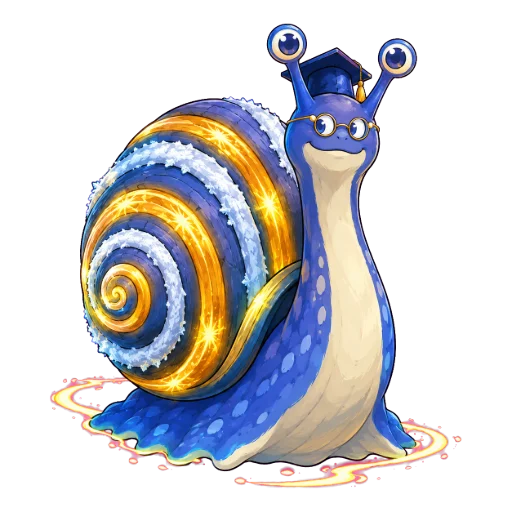
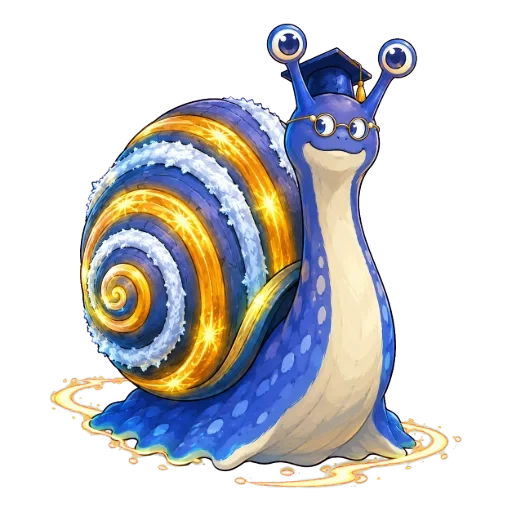
ボス4（トキマイマイ）の光のふちのピンクを消し、顔の丸を顔に合わせる
- 足元の金の光る跡をマゼンタで抜くと、サーモン色のふちが残った。tools/defringe.cjs に
  magenta を足し（赤が緑より強く、青が緑と同じくらい以上の画素を金色に置き換える）、
  黒の背景に重ねて消えたことを見た。手順を art-prompts.md に書いた
- 顔が右上にあるので face を x0.66・y0.21 にした（アプリと同じ切り抜きの見本で確かめた）

Claude-Session: https://claude.ai/code/session_01RNQf1ute6ifihXrBH9K59o

diff --git a/docs/sources/art-prompts.md b/docs/sources/art-prompts.md
@@ -28,6 +28,7 @@
 - 背景が透過にならず黒で出たときも、そのまま置いてよい（戦いの画面は黒い背景）
 - 背景に市松模様（白と薄い灰色のます目）が描き込まれて出ることがある（透過に見えるが透過ではない）。門番が tools/unchecker.cjs（外周からつながる白・薄い灰色だけを透過にする）で抜く（2026-10-09、boss-2）
 - 体のふちが青く光る絵を緑のキーで抜くと、光と緑がまざった水色の線がふちに残る。tools/defringe.cjs（透明の画素から R 画素以内で、緑が赤より 30 以上強い画素の緑を赤まで下げる）で消す: `node tools/defringe.cjs boss-N.webp boss-N.webp 12 30`（playwright-core が要る。2026-10-12、DX boss-12 カギロウ）
+- 金・黄の光（足元の光る跡など）をマゼンタのキーで抜くと、光とマゼンタがまざったサーモン色のふちが残る。同じ道具の magenta で金色に置き換える: `node tools/defringe.cjs boss-N.webp boss-N.webp 16 30 magenta`（2026-10-13、生成AIパスポート boss-4 トキマイマイ。黒の背景に重ねて見て確かめる）
 - 顔が絵の真ん中に無いとき（竜の横向きの体など）は、<アプリ>/data/bosses.json のそのボスに "face": { "x": 0.42, "y": 0.29 }（顔の中心の、幅と高さに対する割合）を足すと、小さな丸の切り抜きが顔に合う。無ければ x 0.5・y 0.23
 
 ### G検定
